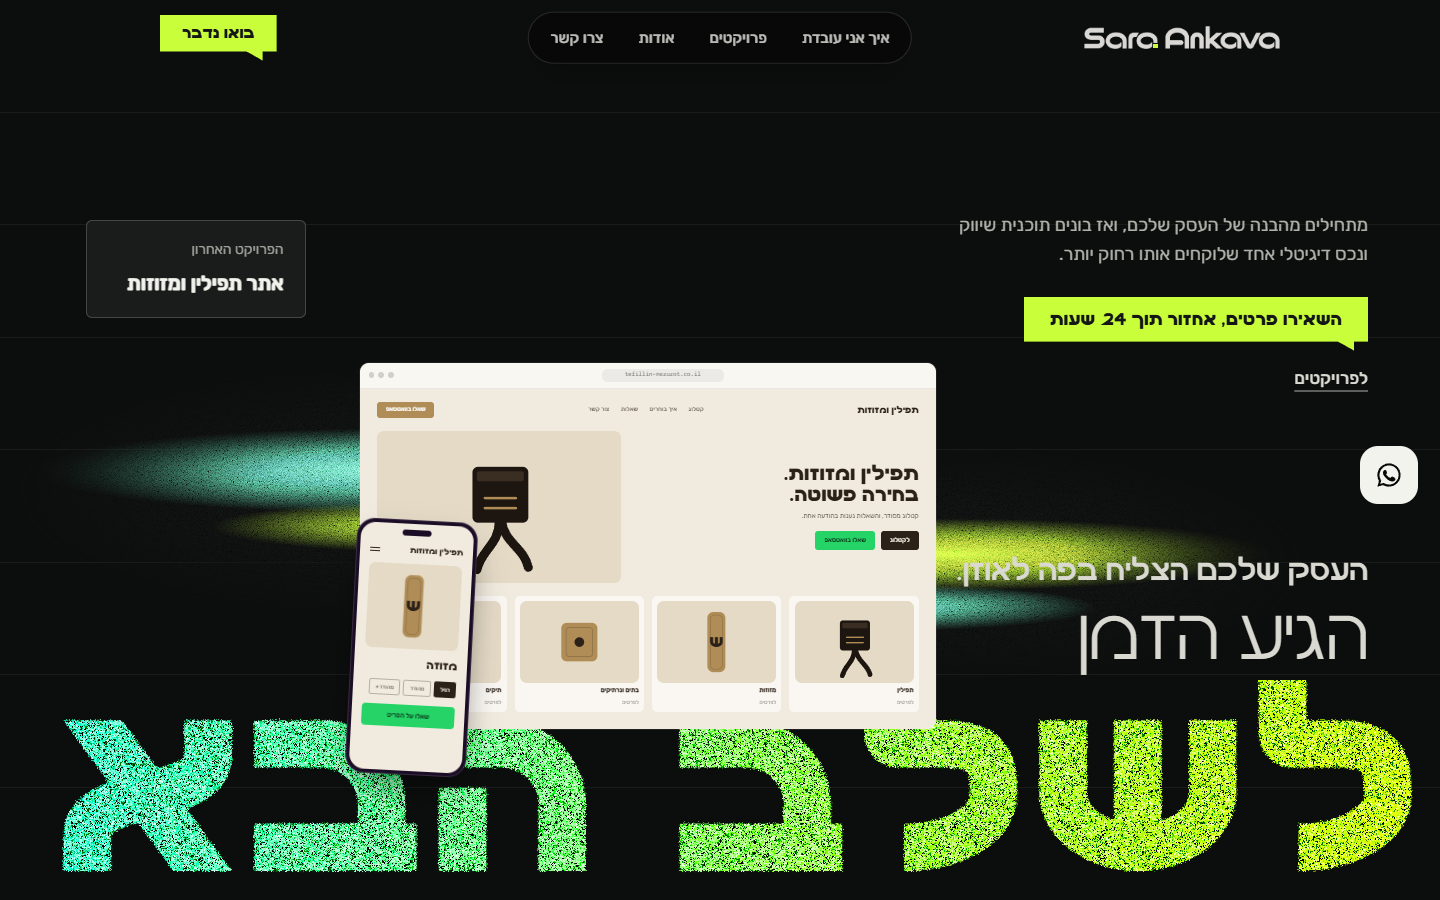
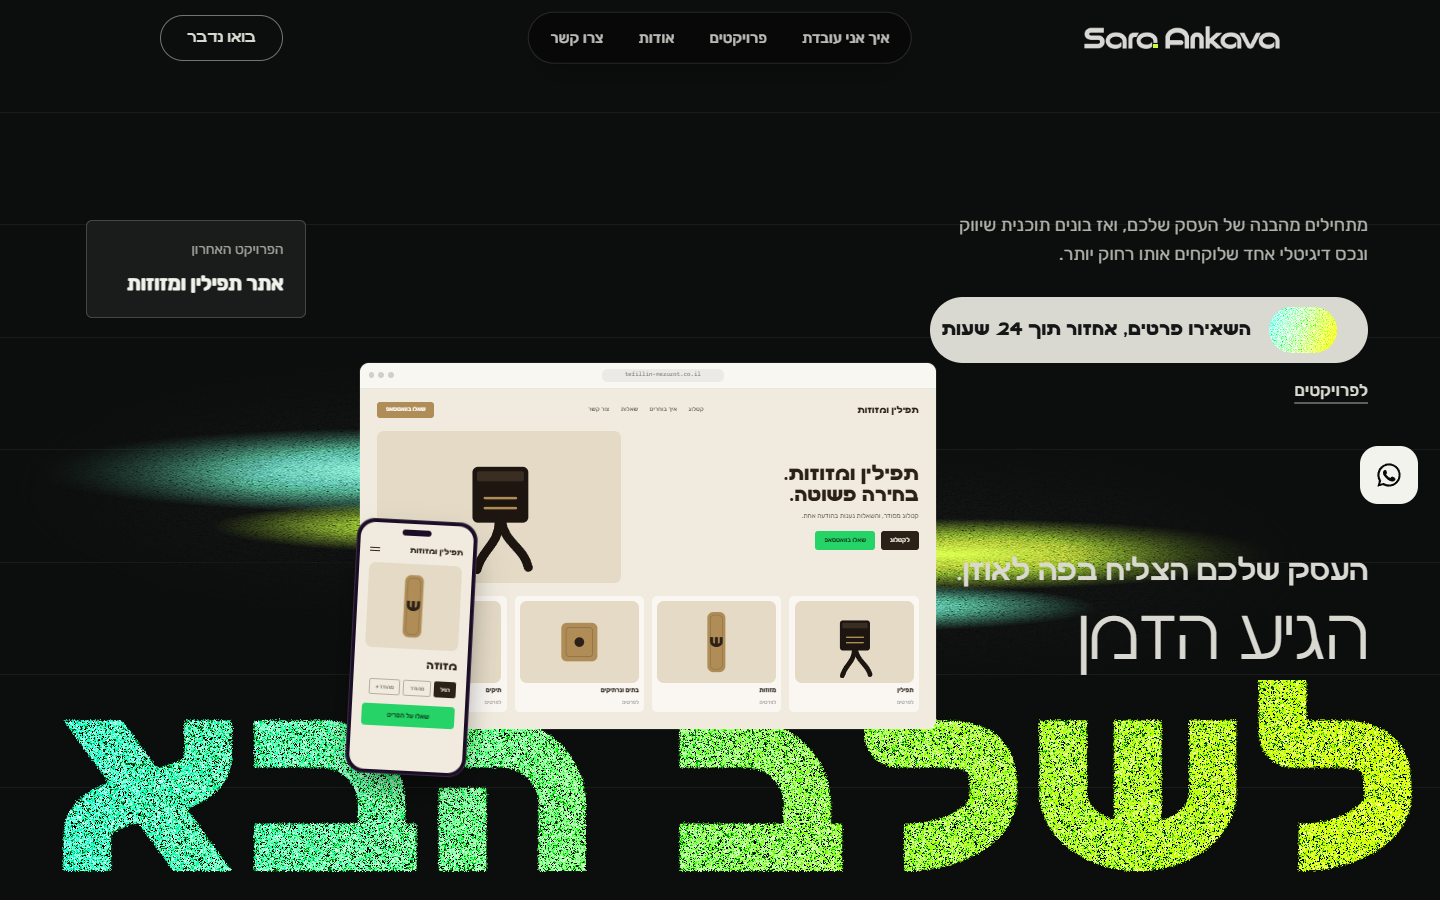
v6: kinetic-style pill buttons (outlined header pill, stone CTA with grain capsule)

Changed region(s): [[0.625, 0.3111, 0.9688, 0.4667], [0.1562, 0.4978, 0.25, 0.5911], [0.0938, 0.0, 0.2188, 0.0622]]

diff --git a/versions/v6/assets/css/v6.css b/versions/v6/assets/css/v6.css
@@ -163,3 +163,12 @@ body::before,body::after{display:none!important}
 
 @media (max-width:900px){.h6__mock{position:relative;left:auto;transform:none;bottom:auto;width:84vw;margin:6px auto 22px}.h6__streak,.h6__card{display:none}}
 @media (max-width:900px){.wa{inset-block-end:26vh}}
+
+/* ===== כפתורים בסגנון kinetic: הדר = קפסולה עם קו דק; ראשי = קפסולה בצבע אבן עם קפסולת גרדיאנט מגורען ===== */
+.cta6{clip-path:none;border-radius:999px;background:transparent;color:var(--v6-stone);border:1px solid rgb(217 217 210 / .5);padding:0 28px;min-height:48px;font:500 16px/1 "Sara Ankava",system-ui,sans-serif;transition:background .25s,color .25s,border-color .25s}
+.cta6:hover{background:var(--v6-stone);color:var(--v6-char);border-color:var(--v6-stone)}
+.hdr .cta6{padding:0 26px;min-height:46px;font-size:15px}
+.cta6--main{gap:18px;min-height:66px;padding:8px 30px 8px 10px;background:var(--v6-stone);color:var(--v6-char);border-color:transparent;font:700 18px/1 "Sara Ankava",system-ui,sans-serif}
+.cta6--main::before{content:"";flex:none;width:68px;height:46px;border-radius:999px;background-image:var(--v6-n),linear-gradient(110deg,var(--v6-mint),var(--v6-lime));background-size:170px auto,auto;background-blend-mode:overlay,normal;filter:contrast(1.4) saturate(1.2);transition:transform .35s}
+.cta6--main:hover{background:var(--v6-paper);color:var(--v6-char);border-color:transparent}
+.cta6--main:hover::before{transform:scaleX(1.12)}

diff --git a/versions/v6/index.html b/versions/v6/index.html
@@ -18,7 +18,7 @@
 <link rel="preload" href="assets/fonts/SaraAnkava-Bold-v1.2.woff2" as="font" type="font/woff2" crossorigin>
 <link rel="stylesheet" href="assets/css/style.css?v=4">
 <link rel="stylesheet" href="assets/css/v4.css?v=2">
-<link rel="stylesheet" href="assets/css/v6.css?v=23">
+<link rel="stylesheet" href="assets/css/v6.css?v=24">
 <meta name="robots" content="noindex">
 <script>document.documentElement.classList.add('js');setTimeout(function(){if(!window.__saReady)document.documentElement.classList.remove('js')},3000)</script>
 <script type="application/ld+json">
@@ -80,7 +80,7 @@
     <a class="h6__card" href="#projects"><span>הפרויקט האחרון</span><b>אתר תפילין ומזוזות</b></a>
     <div class="h6__info">
       <p class="h6__p">מתחילים מהבנה של העסק שלכם, ואז בונים תוכנית שיווק ונכס דיגיטלי אחד שלוקחים אותו רחוק יותר.</p>
-      <div class="h6__ctas"><a class="cta6" href="#contact">השאירו פרטים, אחזור תוך 24 שעות</a><a class="h6__link" href="#projects">לפרויקטים</a></div>
+      <div class="h6__ctas"><a class="cta6 cta6--main" href="#contact">השאירו פרטים, אחזור תוך 24 שעות</a><a class="h6__link" href="#projects">לפרויקטים</a></div>
     </div>
     <h1 class="h6__title" id="hero-title">
       <span class="h6__small">העסק שלכם הצליח בפה לאוזן.</span>
